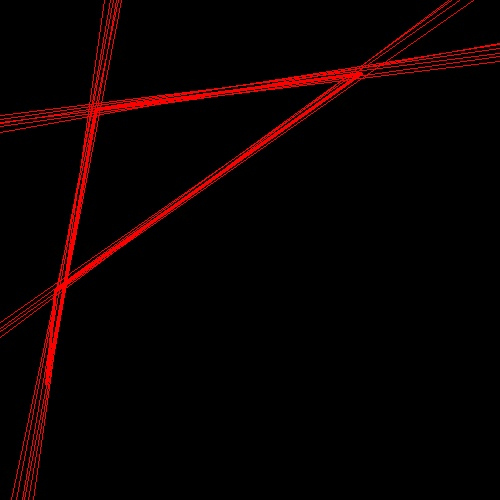
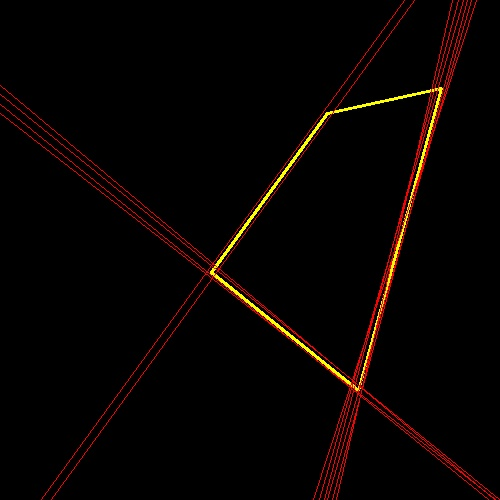
ajout prgr détect coins mire manquants

Changed region(s): [[0.0, 0.0, 1.0, 1.0]]

diff --git a/Code projet initial/polig_4_cotes_intersect.py b/Code projet initial/polig_4_cotes_intersect.py
@@ -1,0 +1,95 @@
+import cv2
+import numpy as np
+import math
+
+def test_intersect_valide(points, intersect):
+
+
+    distance_min_seuil = 20 #distance minimale entre un point et un point d'intersection pour que l'intersection soit valide
+    X = intersect[0]
+    Y = intersect[1]
+    distance_min = float('inf')
+    for point in points:
+        # Calcul de la distance euclidienne entre le point (X, Y) et le point courant
+        distance = math.sqrt((X - point[0]) ** 2 + (Y - point[1]) ** 2)
+
+        # Mise à jour de la distance minimale si nécessaire
+        if distance < distance_min:
+            distance_min = distance
+        
+    # Si la distance minimale est inférieure au seuil, l'intersection n'est pas valide
+    print("distance_min = ", distance_min)
+    if distance_min > distance_min_seuil:
+        return False
+    return True
+
+
+def intersection(x1, y1, x2, y2, x3, y3, x4, y4):
+    # Calculer les coefficients a et b des équations des droites
+    a1 = y2 - y1
+    b1 = x1 - x2
+    c1 = a1 * x1 + b1 * y1
+    a2 = y4 - y3
+    b2 = x3 - x4
+    c2 = a2 * x3 + b2 * y3
+    # Calculer le dénominateur du système d'équations
+    det = a1 * b2 - a2 * b1
+    # Si le dénominateur est égal à zéro, les droites sont parallèles
+    if det == 0:
+        return None
+    # Calculer les coordonnées (x, y) du point d'intersection
+    x = (b2 * c1 - b1 * c2) / det
+    y = (a1 * c2 - a2 * c1) / det
+    # Retourner les coordonnées (x, y) du point d'intersection
+    return x, y
+
+
+def rech_intersections(points):
+
+    doublet_points = []
+    pts_intersection = []
+    for i in range(len(points)):
+        doublet_points.append([points[i], points[(i+1)%len(points)]])
+
+    #on recherche les intersections entre les doublets
+    for i in range(len(doublet_points)):
+        x1 = doublet_points[i][0][0]
+        y1 = doublet_points[i][0][1]
+        x2 = doublet_points[i][1][0]
+        y2 = doublet_points[i][1][1]
+        x3 = doublet_points[(i+2)%len(doublet_points)][0][0]
+        y3 = doublet_points[(i+2)%len(doublet_points)][0][1]
+        x4 = doublet_points[(i+2)%len(doublet_points)][1][0]
+        y4 = doublet_points[(i+2)%len(doublet_points)][1][1]
+        x_int, y_int = intersection(x1, y1, x2, y2, x3, y3, x4, y4)
+
+        if (test_intersect_valide(points, (x_int, y_int))):
+            pts_intersection.append([x_int, y_int])
+
+        #test pour savoir si on garde les points d'intersection : si ils ont incohérents et ne ressemblent pas à des coins de la mire
+
+    print("longueur des points d'intersection : ", len(pts_intersection))
+
+    return pts_intersection   # liste des points d'intersection
+
+
+img = np.zeros((500, 500, 3), np.uint8)
+
+points = np.array([[100, 105], [80, 200], [200, 200],  [220, 190] ,[220, 110],  [200, 103]])
+n_points = len(points)
+pts_intersect = rech_intersections(points)
+
+
+#dessiner les points entre les lignes successives : 
+for i in range(n_points):
+    cv2.line(img, (int(points[i][0]), int(points[i][1])), (int(points[(i+1)%n_points][0]), int(points[(i+1)%n_points][1])), (0, 255, 0), 1)
+    cv2.circle(img, (int(points[i][0]), int(points[i][1])), 3, (255, 0, 255), -1)
+
+#dessinner les points d'intersection
+for pts in pts_intersect:
+    cv2.circle(img, (int(pts[0]), int(pts[1])), 3, (0, 0, 255), -1)
+
+cv2.imshow('img', img)
+cv2.waitKey()
+
+

diff --git a/Code projet initial/test_ polyg_4cotesenglobantmin.py b/Code projet initial/test_ polyg_4cotesenglobantmin.py
@@ -18,13 +18,12 @@ points = np.random.randint(0, 500, size=(n_points, 2))
 for i in range(n_points - 1):
     pt1 = tuple(points[i])
     pt2 = tuple(points[i + 1])
-    cv2.line(img, pt1, pt2, (0, 0, 255), 2)
+    cv2.line(img, pt1, pt2, (0, 255, 255), 2)
 
 # Dessiner la ligne reliant le dernier point au premier point
 pt1 = tuple(points[-1])
 pt2 = tuple(points[0])
-cv2.line(img, pt1, pt2, (0, 0, 255), 2)
-
+cv2.line(img, pt1, pt2, (0, 255, 255), 2)
 
 def segment_by_angle_kmeans(lines, k=10, **kwargs):
     """
@@ -64,7 +63,7 @@ def segment_by_angle_kmeans(lines, k=10, **kwargs):
 
     segmented = list(segmented.values())
     print("Segmented lines into two groups: %d, %d" % (len(segmented[0]), len(segmented[1])))
-
+    print(segmented)
     return segmented
 
 
